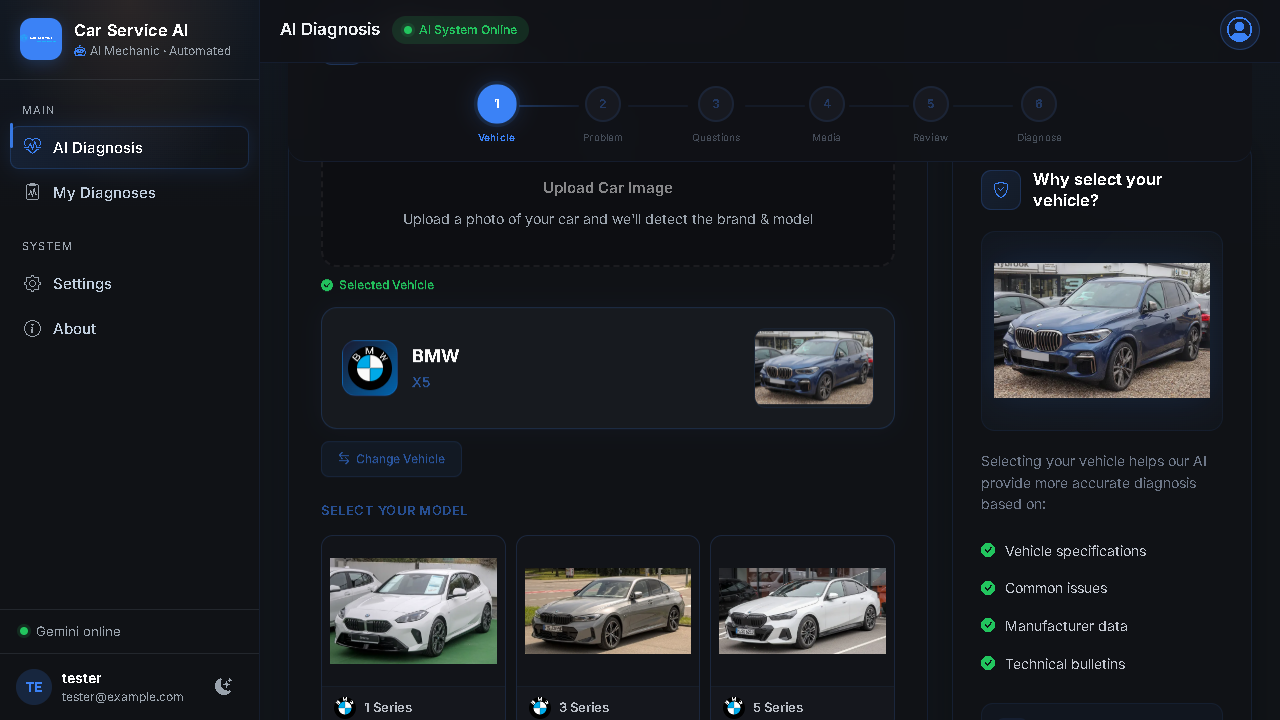
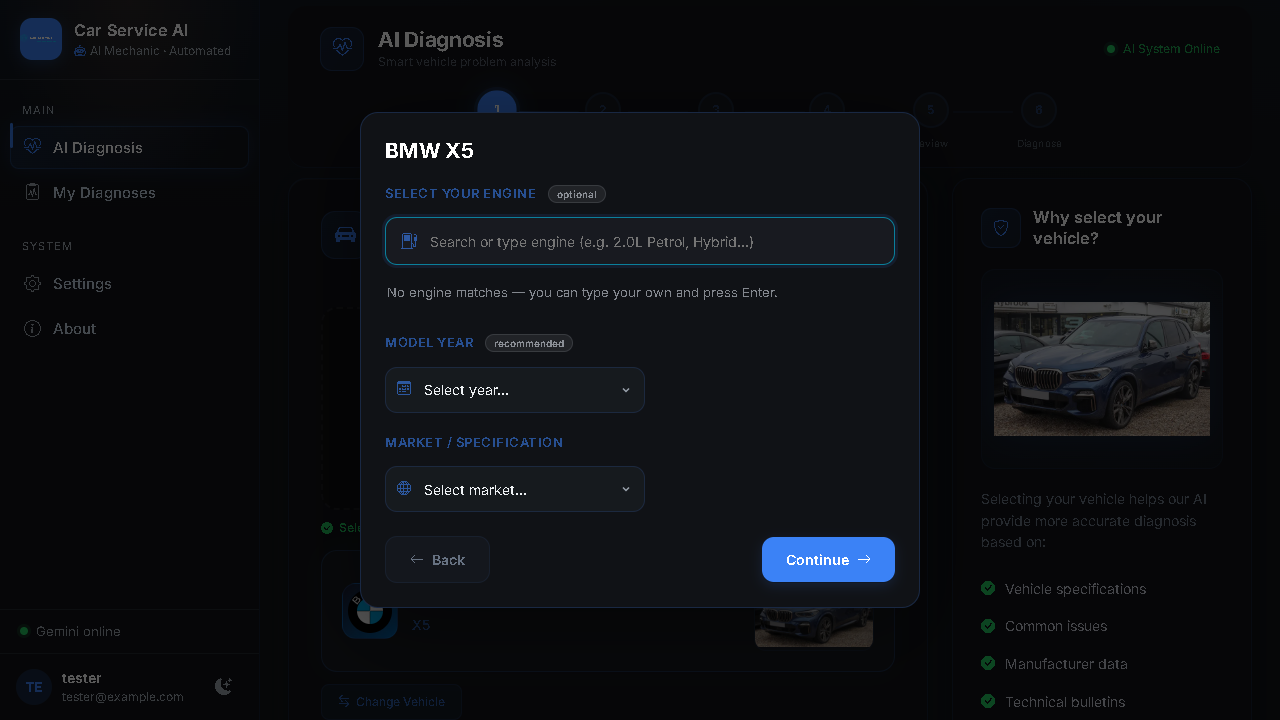
baraa test push

diff --git a/src/ai_report/templates/diagnose.html b/src/ai_report/templates/diagnose.html
@@ -182,53 +182,14 @@
             <div class="dz-car-models-grid" id="dz-car-models-grid"></div>
           </div>
 
-          <!-- Engine / motor selection (cascades from the selected model) -->
-          <div class="dz-car-engines d-none" id="dz-car-engines">
-            <p class="dz-car-models-title" id="dz-engine-title">Select your engine <span class="dz-optional-tag">optional</span></p>
-            <div class="dz-engine-search">
-              <i class="bi bi-fuel-pump dz-engine-search-icon"></i>
-              <input type="text" class="dz-engine-input" id="dz-engine-input"
-                     placeholder="Search or type engine (e.g. 2.0L Petrol, Hybrid…)"
-                     autocomplete="off" spellcheck="false">
-            </div>
-            <div class="dz-engine-suggestions" id="dz-engine-suggestions"></div>
-          </div>
-
-          <!-- Model year — makes the diagnosis + image specific to that year -->
-          <div class="dz-car-year d-none" id="dz-car-year">
-            <p class="dz-car-models-title" id="dz-year-label">Model year <span class="dz-optional-tag">recommended</span></p>
-            <div class="dz-year-select-wrap">
-              <i class="bi bi-calendar3 dz-year-icon"></i>
-              <select class="dz-year-select" id="dz-year-select">
-                <option value="" data-default>Select year…</option>
-                {% for y in years %}<option value="{{ y }}">{{ y }}</option>{% endfor %}
-              </select>
-            </div>
-          </div>
-
-          <div class="dz-car-year d-none" id="dz-car-market">
-            <label class="dz-car-models-title" for="dz-market-select">Market / Specification</label>
-            <div class="dz-year-select-wrap">
-              <i class="bi bi-globe dz-year-icon"></i>
-              <select class="dz-year-select" id="dz-market-select">
-                <option value="">Select market…</option>
-                <option value="US">American (US)</option>
-                <option value="JP">Japanese</option>
-                <option value="EU">European (EU)</option>
-                <option value="GCC">GCC / Gulf</option>
-                <option value="Other">Other</option>
-              </select>
-            </div>
-          </div>
-
           <!-- Validation message -->
           <div class="dz-validation-msg d-none" id="dz-vehicle-validation">
-            <i class="bi bi-exclamation-circle"></i> Please select a vehicle brand to continue.
+            <i class="bi bi-exclamation-circle"></i> Please select a vehicle model to continue.
           </div>
 
           <div class="dz-nav">
             <button class="dz-btn dz-btn-ghost" id="dz-back-vehicle"><i class="bi bi-arrow-left"></i> Back</button>
-            <button class="dz-btn dz-btn-primary dz-btn-locked" id="dz-continue-vehicle">Continue <i class="bi bi-arrow-right"></i></button>
+            <button class="dz-btn dz-btn-primary dz-btn-locked" id="dz-open-vehicle-details">Continue <i class="bi bi-arrow-right"></i></button>
           </div>
         </div>
       </div>
@@ -643,6 +604,56 @@
   </div>
 
 </div>
+
+<!-- Vehicle details reuse the existing selection controls. -->
+<dialog class="dz-vehicle-details-dialog" id="dz-vehicle-details-dialog" aria-labelledby="dz-vehicle-details-title">
+  <div class="dz-vehicle-details-content">
+    <h2 class="dz-card-title" id="dz-vehicle-details-title">Vehicle details</h2>
+    <!-- Engine / motor selection (cascades from the selected model) -->
+    <div class="dz-car-engines d-none" id="dz-car-engines">
+      <p class="dz-car-models-title" id="dz-engine-title">Select your engine <span class="dz-optional-tag">optional</span></p>
+      <div class="dz-engine-search">
+        <i class="bi bi-fuel-pump dz-engine-search-icon"></i>
+        <input type="text" class="dz-engine-input" id="dz-engine-input" aria-labelledby="dz-engine-title"
+               placeholder="Search or type engine (e.g. 2.0L Petrol, Hybrid…)"
+               autocomplete="off" spellcheck="false">
+      </div>
+      <div class="dz-engine-suggestions" id="dz-engine-suggestions"></div>
+    </div>
+
+    <!-- Model year — makes the diagnosis + image specific to that year -->
+    <div class="dz-car-year d-none" id="dz-car-year">
+      <p class="dz-car-models-title" id="dz-year-label">Model year <span class="dz-optional-tag">recommended</span></p>
+      <div class="dz-year-select-wrap">
+        <i class="bi bi-calendar3 dz-year-icon"></i>
+        <select class="dz-year-select" id="dz-year-select" aria-labelledby="dz-year-label">
+          <option value="" data-default>Select year…</option>
+          {% for y in years %}<option value="{{ y }}">{{ y }}</option>{% endfor %}
+        </select>
+      </div>
+    </div>
+
+    <div class="dz-car-year d-none" id="dz-car-market">
+      <label class="dz-car-models-title" for="dz-market-select">Market / Specification</label>
+      <div class="dz-year-select-wrap">
+        <i class="bi bi-globe dz-year-icon"></i>
+        <select class="dz-year-select" id="dz-market-select">
+          <option value="">Select market…</option>
+          <option value="US">American (US)</option>
+          <option value="JP">Japanese</option>
+          <option value="EU">European (EU)</option>
+          <option value="GCC">GCC / Gulf</option>
+          <option value="Other">Other</option>
+        </select>
+      </div>
+    </div>
+
+    <div class="dz-nav">
+      <button type="button" class="dz-btn dz-btn-ghost" id="dz-details-back"><i class="bi bi-arrow-left"></i> Back</button>
+      <button type="button" class="dz-btn dz-btn-primary" id="dz-continue-vehicle">Continue <i class="bi bi-arrow-right"></i></button>
+    </div>
+  </div>
+</dialog>
 
 <!-- ====== RESULT MODAL ====== -->
 <div class="dz-modal-overlay" id="dz-modal-overlay" aria-hidden="true" role="dialog" aria-modal="true" aria-label="Diagnosis Result">

diff --git a/src/ai_report/static/diagnose.js b/src/ai_report/static/diagnose.js
@@ -1895,7 +1895,7 @@
     updateInfoPanelVehicleImage("", "");
 
     /* Enable Continue button */
-    const continueBtn = $("#dz-continue-vehicle");
+    const continueBtn = $("#dz-open-vehicle-details");
     if (continueBtn) continueBtn.classList.remove("dz-btn-locked");
 
     /* Render the curated models instantly, then enrich from the live API so the
@@ -2066,10 +2066,14 @@
 
     updateSelectedVehicleImage(brand, model);
     updateInfoPanelVehicleImage(brand, model);
-    const cont = $("#dz-continue-vehicle");
+    const cont = $("#dz-open-vehicle-details");
     if (cont) cont.classList.remove("dz-btn-locked");
     updateVehicleBadge();
     scheduleSave();
+    loadEngines(brand, model).then(() => {
+      $("#dz-engine-input").value = state.vehicle.engine || "";
+    });
+    openVehicleDetails();
   }
 
   /* ============================================================
@@ -2273,6 +2277,38 @@
     if (yearWrap) yearWrap.classList.remove("d-none");
     $("#dz-car-market")?.classList.remove("d-none");
     if (typeof scheduleSave === "function") scheduleSave();
+    openVehicleDetails();
+  }
+
+  let vehicleDetailsReturnFocus = null;
+  function openVehicleDetails() {
+    if (!state.vehicle.brand || !state.vehicle.model) {
+      $("#dz-vehicle-validation").classList.remove("d-none");
+      return;
+    }
+    const dialog = $("#dz-vehicle-details-dialog");
+    $("#dz-vehicle-validation").classList.add("d-none");
+    $("#dz-vehicle-details-title").textContent = `${state.vehicle.brand} ${state.vehicle.model}`;
+    if (!dialog.open) {
+      vehicleDetailsReturnFocus = document.activeElement;
+      dialog.showModal();
+      document.body.classList.add("dz-vehicle-details-open");
+      $("#dz-engine-input").focus();
+    }
+  }
+
+  function initVehicleDetails() {
+    const dialog = $("#dz-vehicle-details-dialog");
+    $("#dz-open-vehicle-details").addEventListener("click", openVehicleDetails);
+    $("#dz-details-back").addEventListener("click", () => dialog.close());
+    dialog.addEventListener("close", () => {
+      document.body.classList.remove("dz-vehicle-details-open");
+      if (state.step === "vehicle") {
+        const target = vehicleDetailsReturnFocus?.isConnected
+          ? vehicleDetailsReturnFocus : $("#dz-open-vehicle-details");
+        target?.focus();
+      }
+    });
   }
 
   /* Model year → makes the diagnosis + image specific to that year. */
@@ -2335,6 +2371,7 @@
   function selectEngine(value) {
     value = (value || "").trim();
     state.vehicle.engine = value;
+    $("#dz-engine-input").value = value;
     const eLine = $("#dz-car-selected-engine");
     if (eLine) {
       eLine.textContent = value;
@@ -2407,7 +2444,7 @@
     if (dropdown) dropdown.classList.add("d-none");
 
     /* Lock continue button */
-    const continueBtn = $("#dz-continue-vehicle");
+    const continueBtn = $("#dz-open-vehicle-details");
     if (continueBtn) continueBtn.classList.add("dz-btn-locked");
 
     /* Clear selected brand in grid */
@@ -2683,6 +2720,7 @@
       if (vinSection) vinSection.style.display = "none";
     }
     initEngineInput();
+    initVehicleDetails();
     initVoiceInput();
     initProblemStep();
     initModal();
@@ -2702,6 +2740,8 @@
     });
     $("#dz-continue-vehicle").addEventListener("click", () => {
       if (state.vehicle.brand) {
+        selectEngine($("#dz-engine-input").value);
+        $("#dz-vehicle-details-dialog").close();
         $("#dz-vehicle-validation").classList.add("d-none");
         updateVehicleBadge();
         showStep("describe");

diff --git a/src/ai_report/static/diagnose.css b/src/ai_report/static/diagnose.css
@@ -1789,3 +1789,20 @@
 
 .dz-photo-preview { display: block; width: 100%; max-height: 220px; object-fit: contain; margin: 0 auto 12px; border-radius: 12px; }
 .dz-photo-detect-zone:focus-visible { outline: 2px solid var(--accent, #3b82f6); outline-offset: 3px; }
+/* Existing vehicle-detail controls, presented after model selection. */
+.dz-vehicle-details-dialog {
+  width: min(560px, calc(100vw - 32px));
+  max-height: calc(100dvh - 32px);
+  margin: auto;
+  padding: 0;
+  color: var(--c-text, #e2e8f0);
+  background: rgb(var(--c-deep));
+  border: 1px solid rgba(var(--accent-rgb), .2);
+  border-radius: 18px;
+  overflow-y: auto;
+  box-shadow: 0 24px 80px rgba(0, 0, 0, .45);
+}
+.dz-vehicle-details-dialog::backdrop { background: rgba(0, 0, 0, .65); }
+.dz-vehicle-details-content { padding: 24px; }
+.dz-vehicle-details-dialog .dz-car-engines { margin-top: 20px; }
+body.dz-vehicle-details-open { overflow: hidden; }

diff --git a/tests/test_diagnose_browser.py b/tests/test_diagnose_browser.py
@@ -79,6 +79,7 @@ def test_history(browser_page):
     playwright.expect(page.locator('#dz-car-selected-brand')).to_have_text('Honda')
     page.locator('#dz-continue-vehicle').click()
     page.locator('#dz-back-describe').click()
+    page.locator('#dz-open-vehicle-details').click()
     page.locator('#dz-continue-vehicle').click()
     assert page.evaluate('history.length') == history_count
     page.go_back()
@@ -122,8 +123,8 @@ def test_vehicle_text(browser_page, text, brand, model, year, market):
 def test_manual_market_and_restore(browser_page):
     page, base = browser_page
     page.goto(base + '/diagnose')
-    page.locator('#dz-vehicle-search').fill('Honda')
-    page.locator('#dz-car-suggestions [data-brand="Honda"]').first.click()
+    page.locator('#dz-brands-view-all').click()
+    page.locator('#dz-brands-grid [data-brand="Honda"]').click()
     page.locator('[data-model="Accord"]').first.click()
     page.locator('#dz-year-select').select_option('2023')
     page.locator('#dz-market-select').select_option('US')
@@ -224,6 +225,7 @@ def test_selected_model_photos_and_keyboard_search(browser_page):
         brand_card.click()
         card = page.locator(f'#dz-car-models-grid [data-model="{model}"]')
         card.click()
+        page.locator("#dz-details-back").click()
         playwright.expect(page.locator('#dz-car-selected-brand')).to_have_text(brand)
         playwright.expect(page.locator('#dz-car-selected-model')).to_have_text(model)
         photo = page.locator('#dz-selected-image img')
@@ -251,6 +253,7 @@ def test_partial_arabic_and_confirmation(browser_page):
     playwright.expect(page.locator('#dz-car-suggestions button')).to_have_text('Honda — Accord')
     page.locator('#dz-vehicle-search').press('Enter')
     playwright.expect(page.locator('#dz-car-selected-model')).to_have_text('Accord')
+    page.locator('#dz-details-back').click()
     page.locator('#dz-change-vehicle').click()
     # Ambiguous identities require a choice, never silently pick the first brand.
     page.locator('#dz-vehicle-search').fill('Honda Accord Toyota Camry 2023 US')
@@ -259,6 +262,49 @@ def test_partial_arabic_and_confirmation(browser_page):
     playwright.expect(page.locator('#dz-car-selected')).to_be_hidden()
     page.locator('#dz-car-suggestions button').filter(has_text='Toyota').click()
     playwright.expect(page.locator('#dz-car-selected-brand')).to_have_text('Toyota')
+
+
+def test_vehicle_details_popup(browser_page):
+    page, base = browser_page
+    from src.car_database.vehicle_api import _FALLBACK_ENGINES
+    page.unroute('**/api/vehicles/engines*')
+    page.route('**/api/vehicles/engines*', lambda route: route.fulfill(json={'items': _FALLBACK_ENGINES}))
+    page.goto(base + '/diagnose', wait_until='domcontentloaded')
+    page.locator('#dz-brands-grid [data-brand="BMW"]').click()
+    page.locator('#dz-car-models-grid [data-model="X5"]').click()
+    dialog = page.locator('#dz-vehicle-details-dialog')
+    playwright.expect(dialog).to_be_visible()
+    playwright.expect(dialog.locator('#dz-vehicle-details-title')).to_have_text('BMW X5')
+    playwright.expect(dialog.locator('#dz-engine-input')).to_be_focused()
+    playwright.expect(dialog.locator('#dz-engine-suggestions')).to_contain_text('Electric (EV)')
+    assert page.locator('#dz-engine-input').count() == 1
+    page.locator('#dz-engine-input').fill('2.0L Petrol')
+    page.locator('#dz-year-select').select_option('2023')
+    page.locator('#dz-market-select').select_option('US')
+    page.locator('#dz-details-back').click()
+    playwright.expect(dialog).not_to_be_visible()
+    page.locator('#dz-open-vehicle-details').click()
+    playwright.expect(page.locator('#dz-engine-input')).to_have_value('2.0L Petrol')
+    playwright.expect(page.locator('#dz-year-select')).to_have_value('2023')
+    page.keyboard.press('Escape')
+    playwright.expect(dialog).not_to_be_visible()
+    page.set_viewport_size({'width': 390, 'height': 700})
+    page.locator('#dz-open-vehicle-details').click()
+    bounds = dialog.bounding_box()
+    assert bounds['x'] >= 0 and bounds['x'] + bounds['width'] <= 390
+    assert bounds['height'] <= 700
+    page.screenshot(path=str(Path('tmp/vehicle-details-popup-mobile.png')))
+    with page.expect_response(lambda response: response.url.endswith('/update') and response.status == 200
+                              and response.request.post_data_json.get('vehicle', {}).get('engine') == '2.0L Petrol'):
+        page.locator('#dz-continue-vehicle').click()
+    playwright.expect(dialog).not_to_be_visible()
+    playwright.expect(page.locator('#dz-problem')).to_be_visible()
+    from src.shared.store import store
+    assert any(session['vehicle'].get('model') == 'X5'
+               and session['vehicle'].get('year') == 2023
+               and session['vehicle'].get('market') == 'US'
+               and session['vehicle'].get('engine') == '2.0L Petrol'
+               for session in store.diag_sessions('tester@example.com'))
 
 
 def test_image_upload(browser_page):
